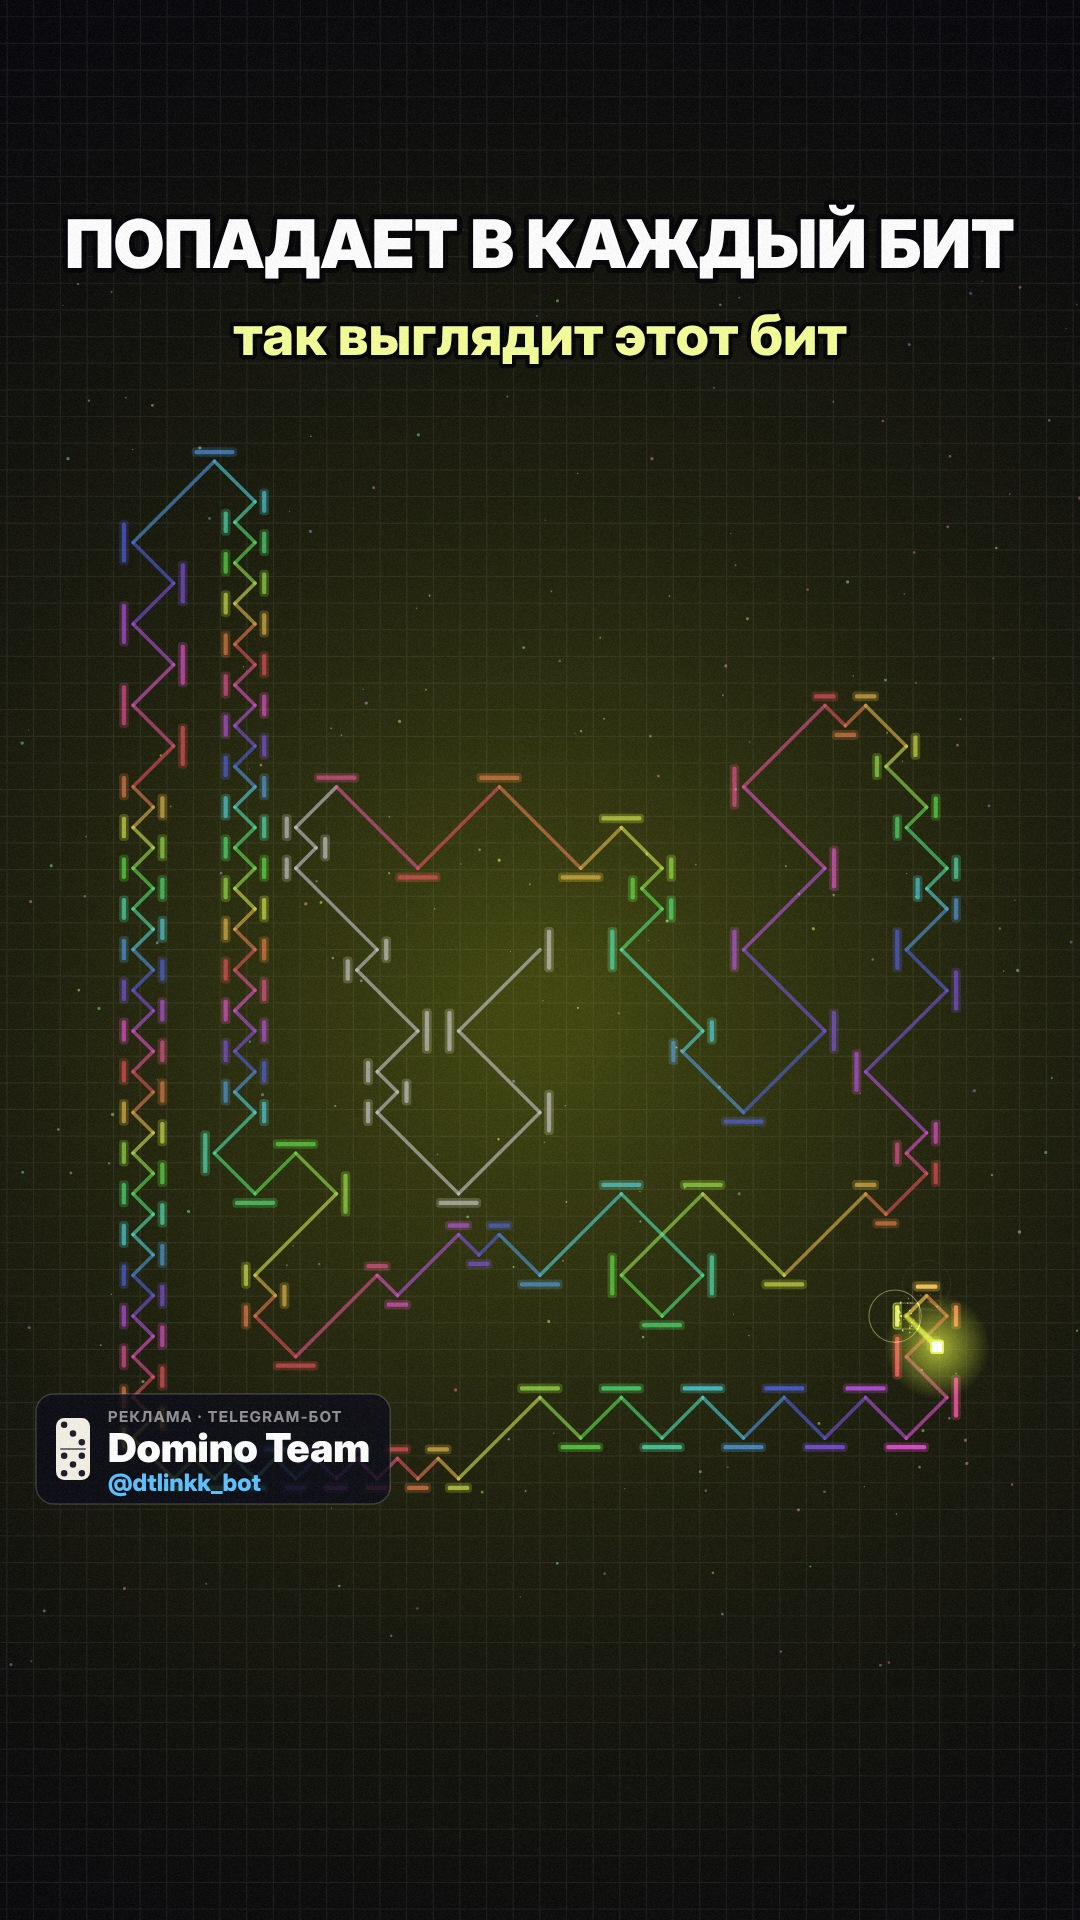
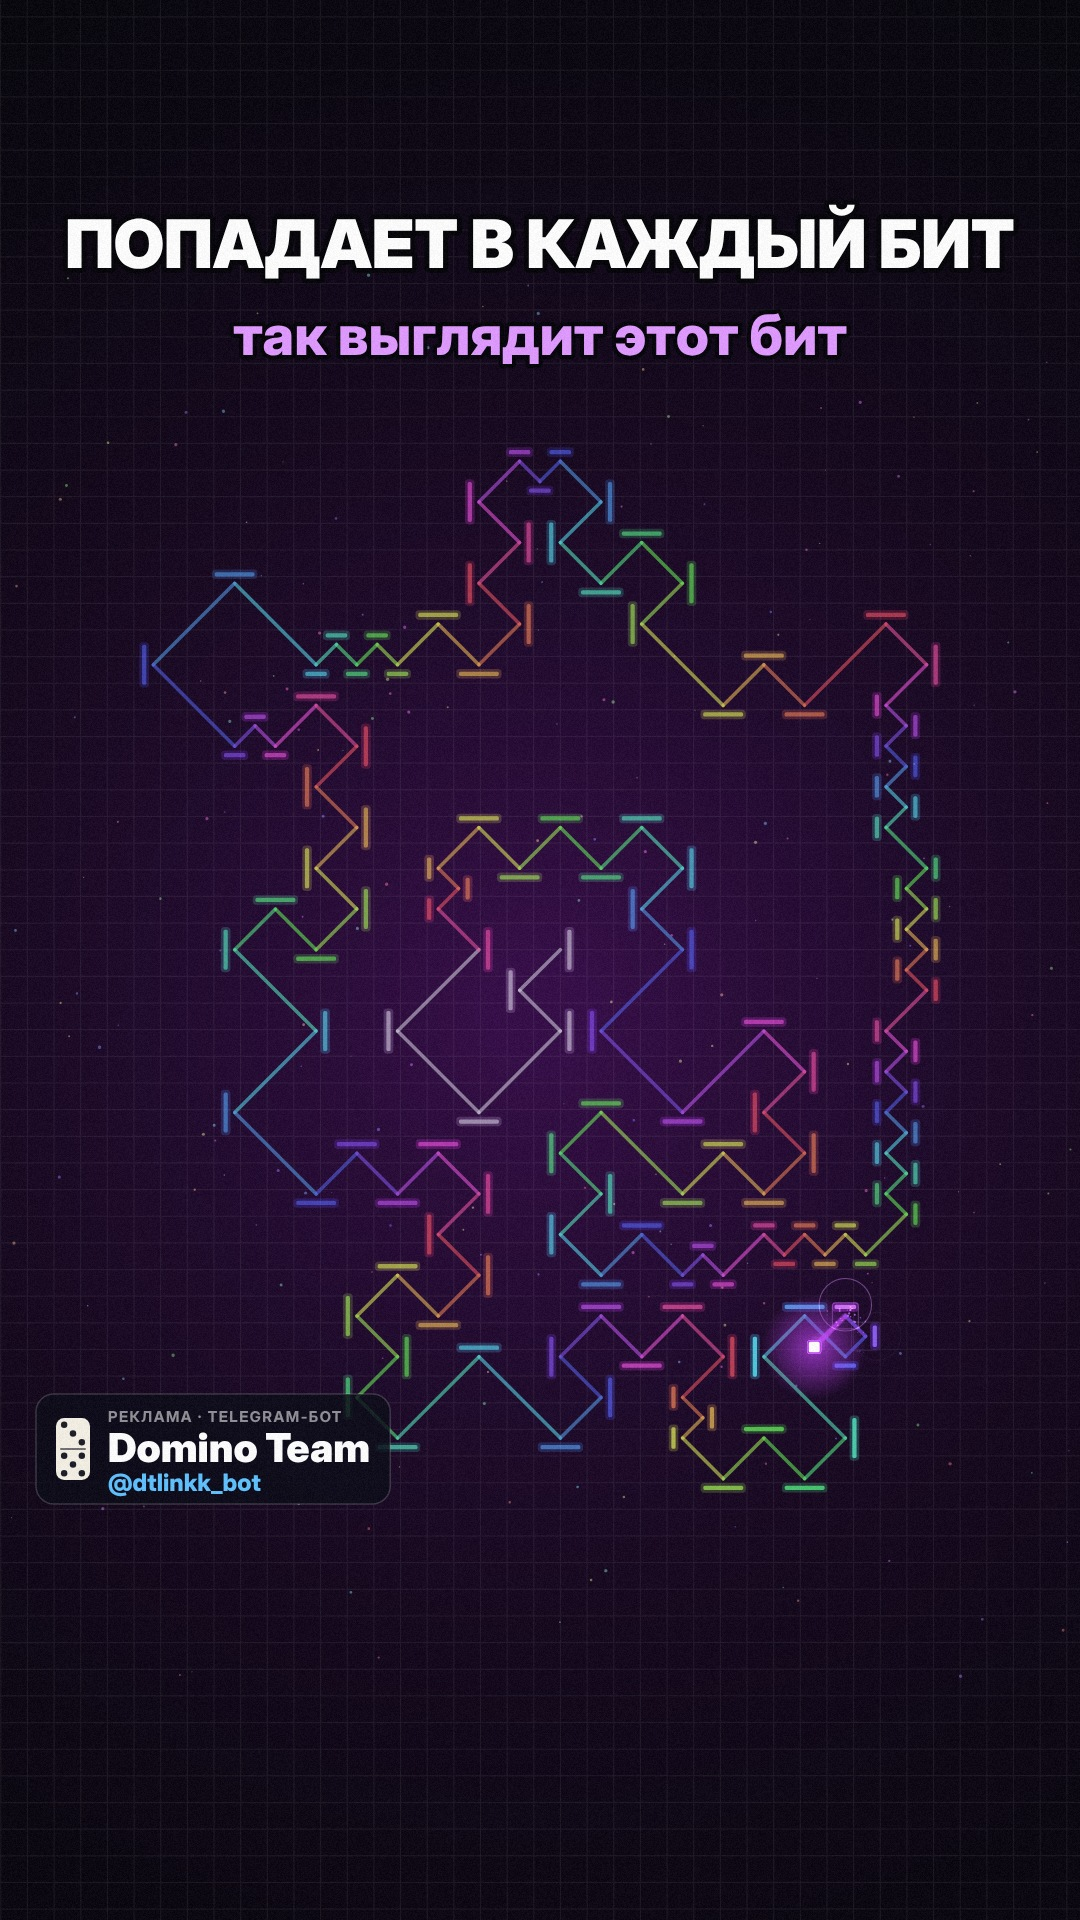
Move the «Andy Warhol» clip to the chorus; one hit per moment
With one bar before the drop the clip opened with two hits at t=0;
analyze.py now keeps one. Earlier plans are unchanged.

Claude-Session: https://claude.ai/code/session_015maj3fbDDPQb9VoSohYQNV

diff --git a/beat-bounce/analyze.py b/beat-bounce/analyze.py
@@ -127,6 +127,8 @@ def main(path, out='beats.json', drop_hint=None, bars_before=2, bars_after=16, f
     events = []
 
     def add(tt, kind, s):
+        if events and tt - start <= events[-1]['t'] + 1e-6:
+            return                                       # one hit per moment (the clip may open on the build bar)
         events.append({'t': round(tt - start, 5), 's': round(float(s), 3), 'kind': kind})
 
     # Every beat is a hit; between beats, an eighth or sixteenth is a hit when the drums really

diff --git a/beat-bounce/README.md b/beat-bounce/README.md
@@ -16,7 +16,7 @@
 | 9mice, Егор Крид, тёмный принц, madk1d — «Jealous» (`jealous.json`) | 3,84–22,02 с: отсчёт «three, two, one, jealous» и весь первый припев до обрыва | 113 | 18,17 с |
 | madk1d & VILLIAN — «8 миля» (`8mile.json`) | 49,99–78,79 с: два такта без баса и 16 тактов после его возвращения | 112 | 28,8 с |
 | Индия, Xcho, МОТ — «Шадэ» (Index-1 Radio Edit) (`shade.json`) | 16,84–49,34 с: два такта до возвращения баса и 16 после; хэты сплошные, поэтому удары только до восьмых | 127 | 32,5 с |
-| Kai Angel — «Andy Warhol» (`andy.json`) | 110,90–145,45 с: пауза без баса и 16 тактов после её конца | 168 | 34,55 с |
+| Kai Angel — «Andy Warhol» (`andy.json`) | 28,34–60,97 с: такт до припева и 16 тактов припева | 139 | 32,63 с |
 
 В «Jealous» отскок приходится на каждое слово отсчёта, перед припевом идёт дробь шестнадцатыми. Петля сходится сама: после обрыва «души ме…» снова начинается отсчёт.
 
@@ -59,8 +59,8 @@ node build.js --beats 8mile.json --track 8-миля.mp3 --out beat-bounce-8mile.
 python3 analyze.py шадэ.mp3 --out shade.json --drop 20.4 --finest 8
 node build.js --beats shade.json --track шадэ.mp3 --out beat-bounce-shade.mp4 --seed 11 --bound 1600,2000
 
-# «Andy Warhol»: дроп после паузы на 111–114 с; бочка на сетке, тарелка на 114,51 — подхват между долями
-python3 analyze.py andy-warhol.mp3 --out andy.json --drop 114.508
+# «Andy Warhol»: припев с 30,27 с (сильная доля, где поднимается громкость), такт до него
+python3 analyze.py andy-warhol.mp3 --out andy.json --drop 30.266 --before 1 --after 16
 node build.js --beats andy.json --track andy-warhol.mp3 --out beat-bounce-andy.mp4 --seed 7 --bound 1600,2000
 
 node build.js --preview 0,3.1,15                                # PNG-кадры в preview/, трек не нужен
